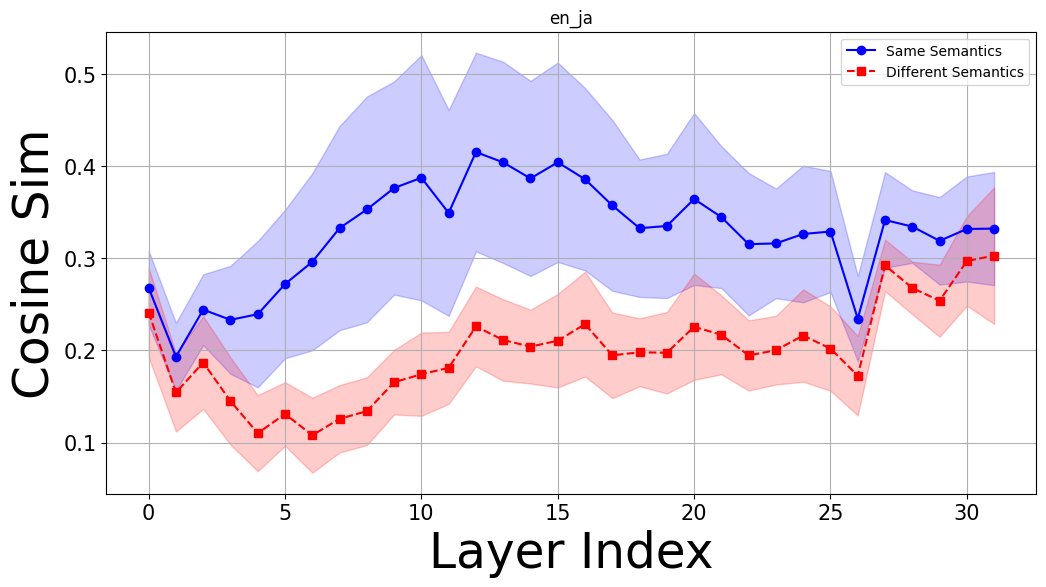
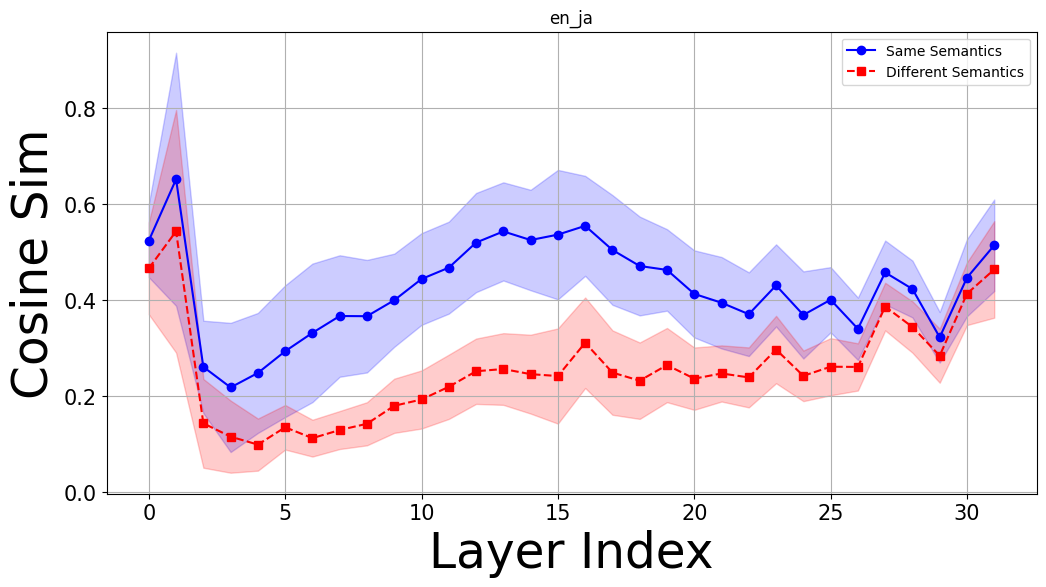
update/images

diff --git a/activated_neuron/new_neurons/transfer_neurons/act_patterns/llama3.py b/activated_neuron/new_neurons/transfer_neurons/act_patterns/llama3.py
@@ -26,7 +26,7 @@ model = AutoModelForCausalLM.from_pretrained(model_name).to(device)
 tokenizer = AutoTokenizer.from_pretrained(model_name)
 n_list = [100, 1000, 3000, 5000, 8000, 10000, 15000, 20000, 30000] # patterns of intervention_num
 n_list = [1000]
-score_types = ["L2_dis"]
+score_types = ["cos_sim"]
 langs = ["ja", "nl", "ko", "it"]
 langs = ["ja"]
 model_type = "llama3"
